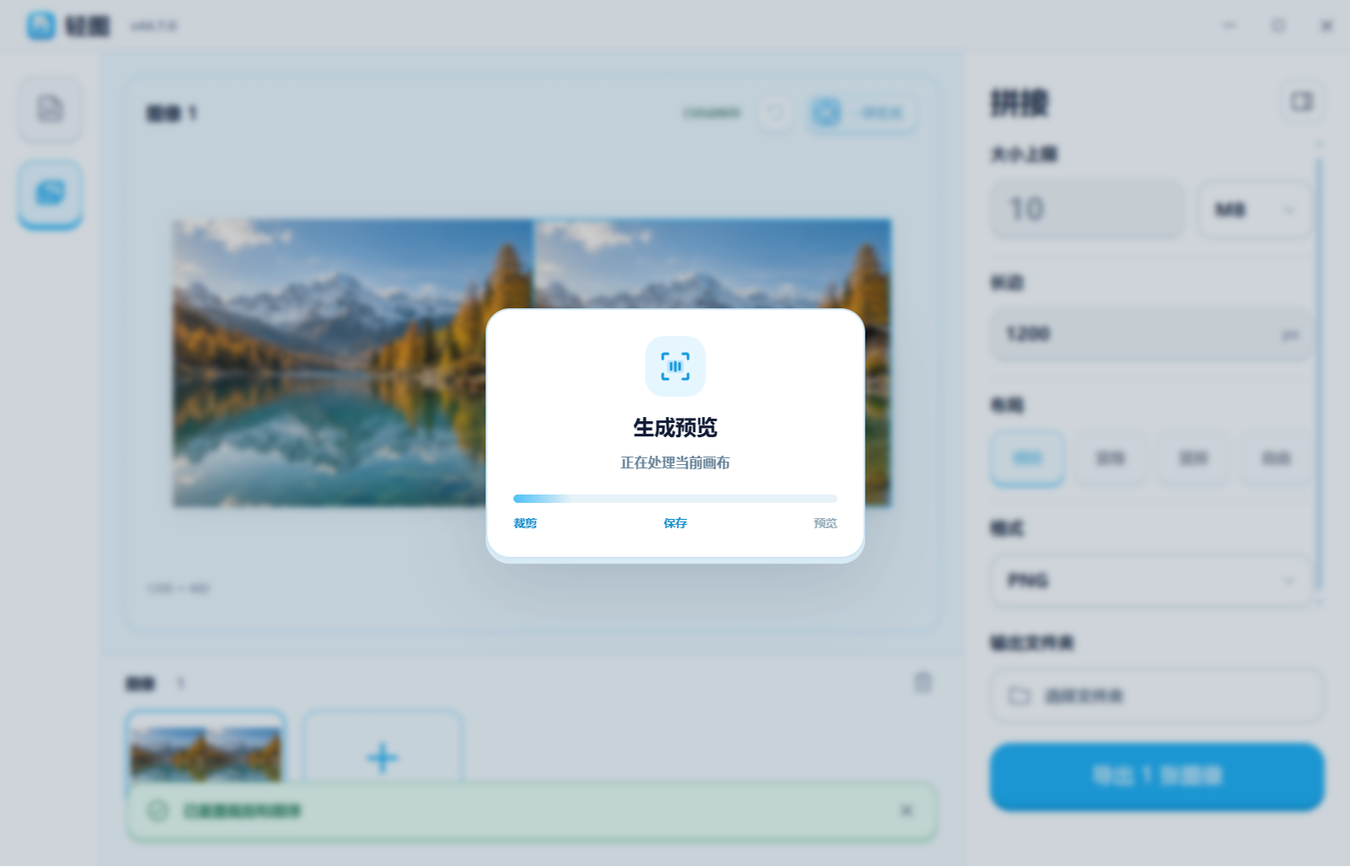
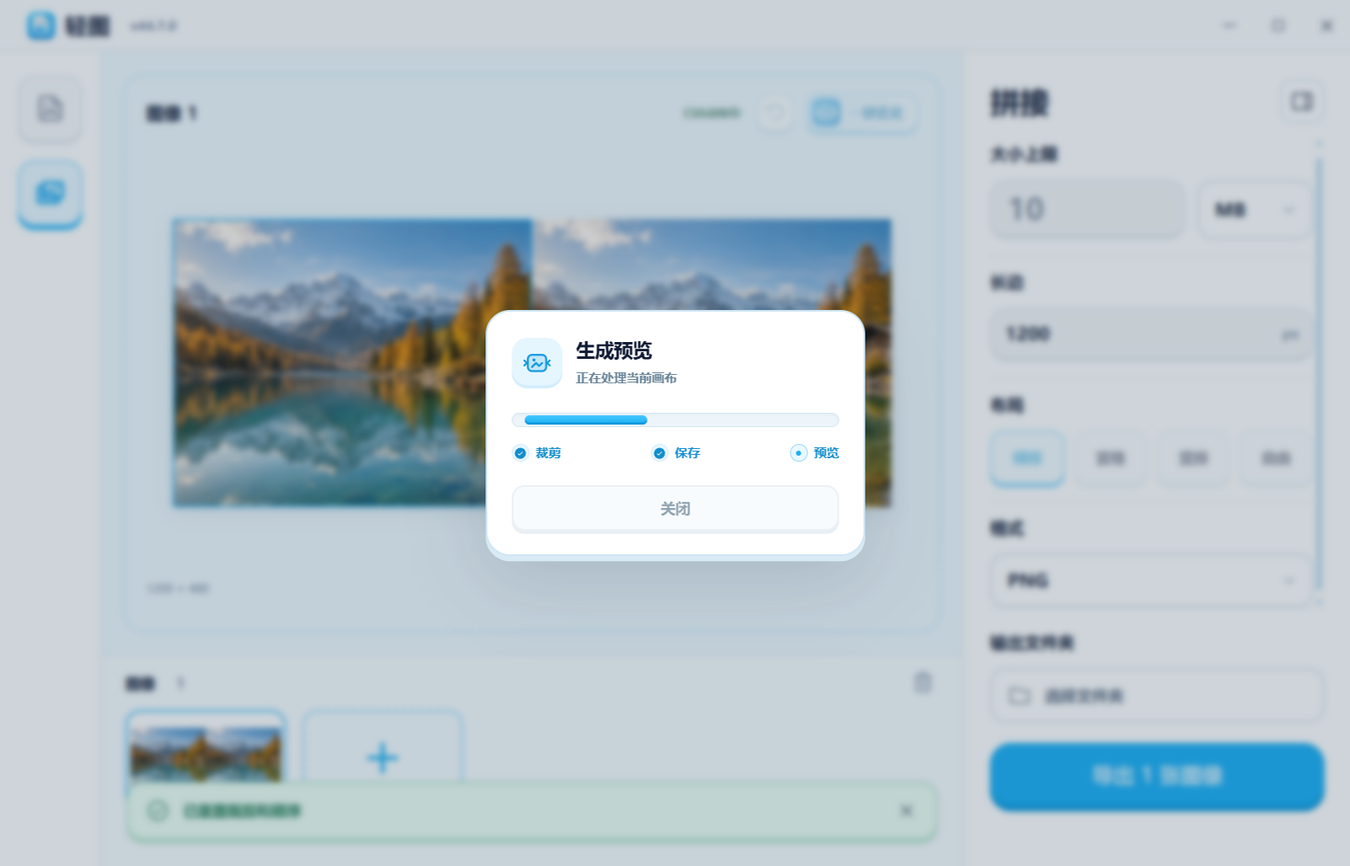
feat: refine optimization feedback and draggable image editor

diff --git a/qingtu/src/stitch/ImageEditor.jsx b/qingtu/src/stitch/ImageEditor.jsx
@@ -1,6 +1,6 @@
 import {forwardRef,useEffect,useImperativeHandle,useLayoutEffect,useRef,useState} from 'react';
 import {createPortal} from 'react-dom';
-import {X,ArrowCounterClockwise} from '@phosphor-icons/react';
+import {ArrowCounterClockwise} from '@phosphor-icons/react';
 import {cropLimit} from '../../engine/stitch-edits.mjs';
 import {addFlushHandler} from '../lifecycle.js';
 import {editorPosition} from './editor-position.js';
@@ -9,9 +9,12 @@ export const ImageEditor=forwardRef(function ImageEditor({image,value,anchor,hid
  const original={axis:value?.axis||'horizontal',amount:value?.amount||0},initial=value==null?{axis:'horizontal',amount:Math.min(50,cropLimit(image,'horizontal'))}:original;
  const [draft,setDraft]=useState(initial),latest=useRef(initial),committed=useRef(original),touched=useRef(false),pointer=useRef(false),timer=useRef(),frame=useRef(),callbacks=useRef(),flushRef=useRef(),panel=useRef();
  const [position,setPosition]=useState({left:anchor?.x||8,top:anchor?.y||8});
+ const positionRef=useRef(position),drag=useRef(),dragFrame=useRef(),mounted=useRef(true),closing=useRef(false),skipDragClick=useRef(false);
  useLayoutEffect(()=>{
-  const place=()=>{if(hidden)return;const size=panel.current.getBoundingClientRect();setPosition(editorPosition(anchor||{x:(innerWidth-size.width)/2,y:(innerHeight-size.height)/2},size,{width:innerWidth,height:innerHeight}));};
-  place();window.addEventListener('resize',place);return()=>window.removeEventListener('resize',place);
+  if(hidden)return;const size=panel.current.getBoundingClientRect();
+  const next=editorPosition(anchor||{x:(innerWidth-size.width)/2,y:(innerHeight-size.height)/2},size,{width:innerWidth,height:innerHeight});positionRef.current=next;setPosition(next);
+  const place=()=>{const size=panel.current.getBoundingClientRect(),next=editorPosition({x:positionRef.current.left,y:positionRef.current.top},size,{width:innerWidth,height:innerHeight});positionRef.current=next;setPosition(next);};
+  window.addEventListener('resize',place);return()=>window.removeEventListener('resize',place);
  },[anchor?.x,anchor?.y,hidden]);
  callbacks.current={onPreview,onCommit,onClose};
  function preview(next){touched.current=true;latest.current=next;setDraft(next);if(frame.current)return;frame.current=requestAnimationFrame(()=>{frame.current=null;callbacks.current.onPreview(latest.current);});}
@@ -26,16 +29,36 @@ export const ImageEditor=forwardRef(function ImageEditor({image,value,anchor,hid
  flushRef.current=commit;
  useImperativeHandle(ref,()=>({flush:()=>flushRef.current()}),[]);
  useEffect(()=>addFlushHandler(()=>flushRef.current()),[]);
- useEffect(()=>()=>{clearTimeout(timer.current);cancelAnimationFrame(frame.current);},[]);
+ useEffect(()=>{mounted.current=true;return()=>{mounted.current=false;clearTimeout(timer.current);cancelAnimationFrame(frame.current);cancelAnimationFrame(dragFrame.current);};},[]);
+ useEffect(()=>{
+  if(hidden||disabled)return;
+  const dismiss=event=>{if(event.type==='pointerdown'&&!drag.current)skipDragClick.current=false;if(event.type==='click'&&skipDragClick.current){skipDragClick.current=false;if(event.detail>0){event.preventDefault();event.stopPropagation();return;}}if(!panel.current.contains(event.target)&&!drag.current&&!pointer.current)close();};
+  document.addEventListener('pointerdown',dismiss,true);document.addEventListener('click',dismiss,true);
+  document.addEventListener('pointermove',moveDrag,true);document.addEventListener('pointerup',endDrag,true);document.addEventListener('pointercancel',endDrag,true);
+  return()=>{document.removeEventListener('pointerdown',dismiss,true);document.removeEventListener('click',dismiss,true);document.removeEventListener('pointermove',moveDrag,true);document.removeEventListener('pointerup',endDrag,true);document.removeEventListener('pointercancel',endDrag,true);};
+ },[hidden,disabled]);
  function amount(raw){
   const number=raw===''?'':Math.max(0,Math.min(cropLimit(image,latest.current.axis),Math.round(Number(raw)||0)));
   preview({...latest.current,amount:number});clearTimeout(timer.current);if(!pointer.current)timer.current=setTimeout(()=>commit().catch(()=>{}),450);
  }
  function direction(axis){if(axis===latest.current.axis)return;preview({axis,amount:0});commit().catch(()=>{});}
  function finish(){pointer.current=false;commit().catch(()=>{});}
- function close(force=false){commit(force).then(()=>callbacks.current.onClose()).catch(()=>{});}
+ function close(force=false){if(closing.current)return;closing.current=true;commit(force).then(()=>{if(mounted.current)callbacks.current.onClose();}).catch(()=>{closing.current=false;});}
+ function startDrag(event){
+  if(disabled||event.button!==0||event.target.closest('button'))return;
+  event.preventDefault();event.currentTarget.setPointerCapture(event.pointerId);
+  drag.current={id:event.pointerId,x:event.clientX,y:event.clientY,...positionRef.current,size:panel.current.getBoundingClientRect()};
+  panel.current.dataset.dragging='true';
+ }
+ function moveDrag(event){
+  const current=drag.current;if(!current||event.pointerId!==current.id)return;
+  if(Math.hypot(event.clientX-current.x,event.clientY-current.y)>3)current.moved=true;
+  positionRef.current=editorPosition({x:current.left+event.clientX-current.x,y:current.top+event.clientY-current.y},current.size,{width:innerWidth,height:innerHeight});
+  if(dragFrame.current)return;dragFrame.current=requestAnimationFrame(()=>{dragFrame.current=null;if(panel.current)Object.assign(panel.current.style,{left:positionRef.current.left+'px',top:positionRef.current.top+'px'});});
+ }
+ function endDrag(event){if(!drag.current||event.pointerId!==drag.current.id)return;if(event.type!=='pointercancel')moveDrag(event);skipDragClick.current=!!drag.current.moved;cancelAnimationFrame(dragFrame.current);dragFrame.current=null;drag.current=null;delete panel.current.dataset.dragging;setPosition({...positionRef.current});}
  return createPortal(<section ref={panel} hidden={hidden} style={position} className="image-editor" role="dialog" aria-label="单图编辑" onKeyDown={event=>{if(event.key==='Escape'){event.stopPropagation();close();}}}>
-  <div className="image-editor-heading"><span title={image.name}>{image.name}</span><button className="icon-button" aria-label="关闭单图编辑" onClick={()=>close()}><X size={18}/></button></div>
+  <div className="image-editor-heading" onPointerDown={startDrag} onPointerMove={moveDrag} onPointerUp={endDrag} onPointerCancel={endDrag}><span title={image.name}>{image.name}</span><button className="image-editor-close" aria-label="关闭单图编辑" onClick={()=>close()}><svg width="16" height="16" viewBox="0 0 20 20" fill="none" aria-hidden><path d="m5 5 10 10M15 5 5 15" stroke="currentColor" strokeWidth="2" strokeLinecap="round"/></svg></button></div>
   <div className="crop-direction" role="group" aria-label="裁剪方向">{[['horizontal','左右'],['vertical','上下']].map(([axis,label])=><button key={axis} disabled={disabled} aria-pressed={draft.axis===axis} className={draft.axis===axis?'active':''} onClick={()=>direction(axis)}>{label}</button>)}</div>
   <label htmlFor="crop-amount">每侧裁剪</label>
   <input className="crop-slider" aria-label="每侧裁剪滑块" style={{'--crop-progress':`${100*(Number(draft.amount)||0)/Math.max(1,cropLimit(image,draft.axis))}%`}} type="range" min="0" max={cropLimit(image,draft.axis)} step="1" value={draft.amount||0} disabled={disabled} onPointerDown={event=>{pointer.current=true;clearTimeout(timer.current);try{event.currentTarget.setPointerCapture(event.pointerId);}catch{}}} onChange={event=>amount(event.target.value)} onPointerUp={finish} onPointerCancel={finish} onKeyUp={finish} onBlur={finish}/>

diff --git a/qingtu/src/styles.css b/qingtu/src/styles.css
@@ -94,10 +94,13 @@ label,h2 { display:block; font-size:16px; font-weight:700; margin-bottom:14px; l
 .stitch-layer.movable,.stitch-layer.reorderable { cursor:grab; }
 .stitch-layer.movable:active,.stitch-layer.reorderable:active { cursor:grabbing; }
 .reorder-indicator { position:absolute; border:2px dashed #119fe7; background:#14aaf318; }
-.image-editor { position:fixed; z-index:26; width:240px; max-width:calc(100vw - 24px); max-height:calc(100dvh - 16px); overflow:auto; padding:12px 15px 14px; border:2px solid #c9e9fa; border-radius:17px; background:#fffffff7; box-shadow:0 4px 0 #d9ecf6,0 8px 25px #18355618; }
-.image-editor-heading { display:flex; align-items:center; justify-content:space-between; gap:8px; margin-bottom:10px; }
+.image-editor { position:fixed; z-index:26; width:240px; max-width:calc(100vw - 24px); max-height:calc(100dvh - 16px); overflow:auto; padding:12px 15px 14px; border:2px solid #c9e9fa; border-radius:17px; background:#fffffff7; box-shadow:0 4px 0 #d9ecf6,0 8px 25px #18355618; -webkit-app-region:no-drag; }
+.image-editor-heading { display:flex; align-items:center; justify-content:space-between; gap:8px; margin-bottom:10px; user-select:none; touch-action:none; cursor:grab; }
+.image-editor[data-dragging="true"] .image-editor-heading { cursor:grabbing; }
 .image-editor-heading span { min-width:0; overflow:hidden; text-overflow:ellipsis; white-space:nowrap; font-size:12px; }
-.image-editor-heading .icon-button { width:26px; height:26px; }
+.image-editor-close { display:grid; place-items:center; padding:0; width:26px; height:26px; flex:0 0 26px; border-radius:8px; color:#718da1; line-height:0; }
+.image-editor-close svg { display:block; }
+.image-editor-close:hover { background:#eaf6fe; color:#148ecd; }
 .crop-direction { display:flex; gap:8px; margin-bottom:17px; }
 .crop-direction button { flex:1; padding:7px 10px; border:2px solid #e0edf5; border-radius:10px; background:#f5fbff; box-shadow:0 2px 0 #e0edf5; font-size:13px; }
 .crop-direction button.active { color:#079dde; border-color:#85d6fa; background:#e5f6ff; box-shadow:0 2px 0 #17aff0; }
@@ -149,21 +152,36 @@ label,h2 { display:block; font-size:16px; font-weight:700; margin-bottom:14px; l
 .stitch-dialog h2 { font-size:20px; margin-bottom:10px; }
 .stitch-dialog p { margin:0; font-size:13px; line-height:1.6; color:#678398; }
 .stitch-dialog p.dialog-error { margin-top:12px; color:#c74665; }
-.stitch-dialog progress { display:block; width:100%; height:8px; margin:20px 0 12px; appearance:none; border:0; border-radius:20px; overflow:hidden; background:#e7f2f8; }
-.stitch-dialog progress::-webkit-progress-bar { background:#e7f2f8; }
-.stitch-dialog progress::-webkit-progress-value { background:var(--blue); border-radius:20px; }
-.stitch-dialog progress:indeterminate { background:linear-gradient(90deg,#e7f2f8 0 35%,#1cb0f6 45% 55%,#e7f2f8 65%); background-size:240% 100%; animation:optimization-progress 1.25s ease-in-out infinite; }
-.stitch-dialog progress:indeterminate::-webkit-progress-bar { background:transparent; }
-.optimization-steps { display:flex; justify-content:space-between; font-size:11px; color:#97adbb; }
+.optimization-dialog { padding:23px; }
+.optimization-heading { display:flex; align-items:center; gap:13px; text-align:left; min-height:52px; }
+.optimization-heading .stitch-dialog-icon { flex:0 0 48px; width:48px; height:48px; border-radius:15px; margin:0; box-shadow:inset 0 -3px 0 #d3edfc; }
+.optimization-heading .stitch-dialog-icon.danger { box-shadow:inset 0 -3px 0 #f9e0e7; }
+.optimization-heading h2 { font-size:18px; margin:0 0 5px; }
+.optimization-heading p { font-size:12px; overflow-wrap:anywhere; }
+.optimization-progress { height:14px; padding:2px; margin:21px 0 14px; border:1px solid #d5e6f0; border-radius:9px; overflow:hidden; background:#edf5fa; box-shadow:inset 0 2px 2px #b8d2e425; }
+.optimization-progress-fill { display:block; width:38%; height:100%; border-radius:6px; background:linear-gradient(#46c7ff,#1aaff4); box-shadow:inset 0 -2px 0 #0897db; animation:optimization-progress 1.7s cubic-bezier(.4,0,.3,1) infinite; }
+.optimization-progress.done .optimization-progress-fill { width:100%; animation:none; transform:none; }
+.optimization-steps { display:flex; justify-content:space-between; align-items:center; gap:8px; margin-top:16px; font-size:12px; color:#92a8b8; }
+.optimization-steps>span { display:flex; align-items:center; gap:6px; }
+.optimization-steps i { display:grid; place-items:center; width:17px; height:17px; border:1px solid #dbe8f0; border-radius:50%; background:#f4f8fb; }
+.optimization-steps i>span { width:5px; height:5px; border-radius:50%; background:#c4d5e0; }
 .optimization-steps .complete { color:#138dcc; }
+.optimization-steps .complete i { border-color:#d2edfc; background:#e8f7ff; }
+.optimization-steps .active { color:#148ecd; }
+.optimization-steps .active i { border-color:#98d8f6; background:#eaf8ff; }
+.optimization-steps .active i>span { background:var(--blue); }
+.optimization-steps .failed { color:#c74665; }
+.optimization-steps .failed i { border-color:#f1cbd7; background:#fff1f5; }
+.optimization-steps .failed i>span { background:#cf6a82; }
 .stitch-dialog-actions { display:flex; gap:12px; margin-top:22px; }
 .stitch-dialog-actions button { flex:1; min-height:43px; border:2px solid #dce9f2; border-radius:12px; font-size:14px; font-weight:750; background:#f6fbfe; color:#678398; box-shadow:0 3px 0 #dce9f2; }
 .stitch-dialog-actions .dialog-confirm { border-color:#097bbc; background:#097bbc; color:white; box-shadow:0 3px 0 #08659c; }
 .stitch-dialog-actions .dialog-confirm.danger { border-color:#c74665; background:#c74665; box-shadow:0 3px 0 #a93451; }
+.stitch-dialog-actions .optimization-dismiss { color:#48677e; background:#f4f8fc; border-color:#dce7f0; box-shadow:0 3px 0 #dae4ed; }
 .stitch-dialog-actions button:active:not(:disabled) { transform:translateY(2px); box-shadow:none; }
 .stitch-dialog-actions button:disabled { opacity:.6; }
-@keyframes optimization-progress { 0% { background-position:100% 0; } 100% { background-position:0 0; } }
-@media (prefers-reduced-motion:reduce) { .stitch-dialog progress:indeterminate { animation:none; background-position:50% 0; } }
+@keyframes optimization-progress { 0%,100% { transform:translateX(0); } 50% { transform:translateX(160%); } }
+@media (prefers-reduced-motion:reduce) { .optimization-progress-fill { animation:none; transform:translateX(80%); } }
 .canvas-area { flex:1; min-height:0; min-width:0; display:flex; align-items:center; justify-content:center; padding:14px 20px 26px; overflow:hidden; }
 .empty-state { display:flex; align-items:center; flex-direction:column; gap:18px; transform:translateY(-3px); }
 .empty-illustration { width:360px; height:280px; margin:-30px 0; object-fit:contain; user-select:none; pointer-events:none; }

diff --git a/qingtu/src/stitch/ActionDialogs.jsx b/qingtu/src/stitch/ActionDialogs.jsx
@@ -3,10 +3,10 @@ import {createPortal} from 'react-dom';
 import {ArrowCounterClockwise,Trash,CheckCircle,WarningCircle} from '@phosphor-icons/react';
 import {OptimizeIcon} from './OptimizeIcon.jsx';
 
-function Modal({children,label,onCancel}){
+function Modal({children,label,onCancel,className=''}){
  const dialog=useRef();
  useEffect(()=>{const target=document.activeElement;dialog.current.showModal();return()=>{dialog.current?.close();if(target?.isConnected)target.focus();};},[]);
- return createPortal(<dialog ref={dialog} className="stitch-dialog" aria-label={label} onCancel={event=>{event.preventDefault();onCancel?.();}}>{children}</dialog>,document.body);
+ return createPortal(<dialog ref={dialog} className={`stitch-dialog ${className}`} aria-label={label} onCancel={event=>{event.preventDefault();onCancel?.();}}>{children}</dialog>,document.body);
 }
 export function ConfirmDialog({request,onCancel,onConfirm}){
  const [working,setWorking]=useState(false),[error,setError]=useState('');
@@ -18,5 +18,11 @@ export function OptimizeDialog({state,onClose}){
  const finished=state.phase==='done'||state.phase==='error',Icon=state.phase==='done'?CheckCircle:state.phase==='error'?WarningCircle:OptimizeIcon;
  const phase=state.phase==='error'?state.failedAt:state.phase;
  const labels={prepare:'准备优化',calculate:'计算裁剪',save:'保存画布',render:'生成预览',done:'优化完成',error:'优化未完成'};
- return <Modal label="一键优化进度" onCancel={()=>{if(finished)onClose();}}><div className={`stitch-dialog-icon ${state.phase==='error'?'danger':''}`}><Icon size={32}/></div><h2>{labels[state.phase]}</h2><p aria-live="polite">{state.message||'正在处理当前画布'}</p>{state.phase!=='error'&&<progress aria-label="一键优化进度" max="1" value={state.phase==='done'?1:undefined}/>}<div className="optimization-steps" aria-hidden><span className={['save','render','done'].includes(phase)?'complete':''}>裁剪</span><span className={['render','done'].includes(phase)?'complete':''}>保存</span><span className={state.phase==='done'?'complete':''}>预览</span></div>{finished&&<div className="stitch-dialog-actions"><button className="dialog-confirm" onClick={onClose}>{state.phase==='done'?'完成':'关闭'}</button></div>}</Modal>;
+ const steps=[['calculate','裁剪'],['save','保存'],['render','预览']],index=steps.findIndex(([key])=>key===phase);
+ return <Modal label="一键优化进度" className="optimization-dialog" onCancel={()=>{if(finished)onClose();}}>
+  <div className="optimization-heading"><div className={`stitch-dialog-icon ${state.phase==='error'?'danger':''}`}><Icon size={27}/></div><div><h2>{labels[state.phase]}</h2><p aria-live="polite">{state.message||'正在处理当前画布'}</p></div></div>
+  {state.phase!=='error'&&<div className={`optimization-progress ${state.phase==='done'?'done':''}`} role="progressbar" aria-label="一键优化进度" aria-valuemin={0} aria-valuemax={100} aria-valuenow={state.phase==='done'?100:undefined} aria-valuetext={labels[state.phase]}><span className="optimization-progress-fill"/></div>}
+  <div className="optimization-steps" aria-hidden>{steps.map(([key,label],n)=>{const status=state.phase==='done'||n<index?'complete':n===index?(state.phase==='error'?'failed':'active'):'';return <span key={key} className={status}><i>{status==='complete'?<CheckCircle size={13} weight="fill"/>:<span/>}</i>{label}</span>;})}</div>
+  <div className="stitch-dialog-actions"><button className={state.phase==='done'?'dialog-confirm':'dialog-cancel optimization-dismiss'} disabled={!finished} onClick={onClose}>{state.phase==='done'?'完成':'关闭'}</button></div>
+ </Modal>;
 }

diff --git a/qingtu/src/stitch/CanvasTools.jsx b/qingtu/src/stitch/CanvasTools.jsx
@@ -1,10 +1,12 @@
 import {ArrowCounterClockwise} from '@phosphor-icons/react';
 import {TooltipButton} from '../TooltipButton.jsx';
 import {OptimizeIcon} from './OptimizeIcon.jsx';
+import {optimizationAvailability} from '../../engine/stitch-optimize.mjs';
 
 export function CanvasTools({project,busy,onReset,onOptimize}){
+ const optimization=optimizationAvailability(project);
  return <div className="canvas-actions" role="group" aria-label="画布工具">
   <TooltipButton label="重置裁剪与顺序" placement="left" className="canvas-reset" disabled={busy||!project?.images.length} onClick={onReset}><ArrowCounterClockwise size={19}/></TooltipButton>
-  <button className="canvas-optimize" aria-label="一键优化" title={project?.layout==='horizontal'?'统一左右裁剪为 2.5:1':'仅横排可用'} disabled={busy||!project?.images.length||project.layout!=='horizontal'} onClick={onOptimize}><span className="optimizer-glyph"><OptimizeIcon size={22}/></span><span>一键优化</span></button>
+  <button className="canvas-optimize" aria-label="一键优化" title={optimization.hint} disabled={busy||!optimization.enabled} onClick={onOptimize}><span className="optimizer-glyph"><OptimizeIcon size={22}/></span><span>一键优化</span></button>
  </div>;
 }

diff --git a/qingtu/src/stitch/OptimizeIcon.jsx b/qingtu/src/stitch/OptimizeIcon.jsx
@@ -1,7 +1,9 @@
 export function OptimizeIcon({size=24,...props}){
- return <svg width={size} height={size} viewBox="0 0 32 32" fill="none" aria-hidden {...props}>
-  <path d="M9 4H5a1 1 0 0 0-1 1v4m19-5h4a1 1 0 0 1 1 1v4M4 23v4a1 1 0 0 0 1 1h4m19-5v4a1 1 0 0 1-1 1h-4" stroke="currentColor" strokeWidth="2.5" strokeLinecap="round"/>
-  <rect x="8" y="10" width="16" height="12" rx="2.5" fill="currentColor" opacity=".18"/>
-  <path d="M12 13v6m8-6v6M16 12v8" stroke="currentColor" strokeWidth="2.5" strokeLinecap="round"/>
+ return <svg width={size} height={size} viewBox="0 0 28 28" fill="none" aria-hidden {...props}>
+  <rect x="4" y="6" width="20" height="16" rx="4" fill="currentColor" opacity=".16"/>
+  <path d="M9 6h10a4 4 0 0 1 4 4v8a4 4 0 0 1-4 4H9a4 4 0 0 1-4-4v-8a4 4 0 0 1 4-4Z" stroke="currentColor" strokeWidth="1.9"/>
+  <circle cx="11" cy="11" r="1.5" fill="currentColor"/>
+  <path d="m9 18 4-4 3 3 3-3" stroke="currentColor" strokeWidth="1.9" strokeLinecap="round" strokeLinejoin="round"/>
+  <path d="m1.5 11.5 2.5 2.5-2.5 2.5m25-5-2.5 2.5 2.5 2.5" stroke="currentColor" strokeWidth="1.9" strokeLinecap="round" strokeLinejoin="round"/>
  </svg>;
 }

diff --git a/qingtu/README.md b/qingtu/README.md
@@ -24,9 +24,9 @@ Mac / Windows 本地图片压缩与拼接工具。拖入图片，设置大小或
 - 唯一自动裁切是横排超宽时对其中未手动裁剪的 9:16 图片左右居中裁切。其他比例和竖排、宫格、自由布局超限时提示调整。四张未编辑的 3:4、3:4、9:16、9:16 图片默认输出 5999×2400。
 - 自由画布包住全部可见图片内容，内部空隙透明。进入自由画布时保留高度与中心，恢复自动裁切，保留用户手动裁剪；新增图片按现有基准高度缩放，在右侧追加。支持画布内移动、边缘/中心吸附、等比尺寸调整；蓝色选中框贴合图片，始终显示在图片上方。
 - 底部“图像”卡片展示整个画布，可切换、新建，无复选框。右键卡片可单独导出或删除，删除前确认；列表右上角可确认删除全部，完成后留一张新空画布。画布内不再显示添加/删除按钮；使用拖入或 ⌘/Ctrl+O 继续导入，Delete 移除选中图片。空画布仍可点击“添加图片”。右侧保留布局与导出设置，卡片小图持久化且不加载其他项目原图。
-- 横排可点击“一键优化”：从完整原图重新计算，每张按相同百分比左右居中裁剪，替换已有裁剪并自动保存。最终画布严格 2.5:1，默认 5995×2398；自定义长边在点击时向下取最近的 5 的倍数。之后修改严格比例的分辨率需输入 5 的倍数，不符合时明确提示。原图横排比例不足 2.5 时提示无需优化；其他布局禁用按钮。重复点击不叠加裁剪、不重复编码。
-- 画布右上角仅放置各自有背景的重置与“一键优化”，优化位于最右侧，采用自绘裁剪拼图图标。优化弹窗显示实际处理阶段，未知时长用活动进度条，完成后确认；相同结果不重复编码。重置先弹窗确认。右侧布局依次为横排、宫格、竖排、自由；画布右下角显示 MB，悬停可查看精确字节数。
-- 画布中右键图片可编辑或删除，双击图片在鼠标位置打开单图编辑浮层，靠近边缘时自动避让。左右或上下二选一，拖动滑块或输入原图每侧裁剪像素；切换方向从 0 开始，可重置。未编辑图片每侧预填 50 px，修改或点“完成”才应用，直接关闭或退出应用不应用预填。已有裁剪状态保留；手动裁剪适用于所有布局，原图副本不变，自由画布保留图片中心和原图缩放比例。
+- 横排可点击“一键优化”：从完整原图重新计算，每张按相同百分比左右居中裁剪，替换已有裁剪并自动保存。最终画布严格 2.5:1，默认 5995×2398；自定义长边在点击时向下取最近的 5 的倍数。之后修改严格比例的分辨率需输入 5 的倍数，不符合时明确提示。沿用原图比例判定：原图横排比例不超过 2.5、已完成同样裁剪或非横排时直接禁用按钮，不弹出无需优化提示，不重复编码。默认 9:16 自动裁切与此显式操作保持原来的独立规则。
+- 画布右上角仅放置各自有背景的重置与“一键优化”，优化位于最右侧，采用自绘的向内收边图片图标。优化弹窗显示实际裁剪、保存、预览阶段，未知时长用蓝色圆角活动进度条；实际完成后才标记 100%。处理中关闭按钮禁用且为浅灰色，失败后的关闭保持中性灰，成功时“完成”为蓝色。重置先弹窗确认。右侧布局依次为横排、宫格、竖排、自由；画布右下角显示 MB，悬停可查看精确字节数。
+- 画布中右键图片可编辑或删除，双击图片在鼠标位置打开单图编辑浮层，靠近边缘时自动避让。可拖动标题栏移动编辑窗，始终限制在窗口内；点击应用内浮层外的区域自动关闭并提交已改动的裁剪，关闭图标居中。左右或上下二选一，拖动滑块或输入原图每侧裁剪像素；切换方向从 0 开始，可重置。未编辑图片每侧预填 50 px，修改或点“完成”才应用，直接关闭或退出应用不应用预填。已有裁剪状态保留；手动裁剪适用于所有布局，原图副本不变，自由画布保留图片中心和原图缩放比例。
 - 右上角重置恢复裁剪和真正导入顺序，保留布局与导出设置；横排 9:16 的自动裁切规则仍按当前布局重新计算。新项目自动记录导入顺序。没有该记录的旧多图项目须由用户提供真实顺序，应用不会猜测或将当前顺序当作初始顺序。
 - 横排、竖排、宫格中直接拖动图片换序；自由画布中直接拖动移动位置。滑块与拖动仅更新低分辨率画面，结束后自动保存并计算真实预览；键盘 Alt+方向键换序，方向键移动自由图片，Enter 编辑，Delete 移除。
 - 主按钮“导出 X 张图像”默认导出全部有内容的画布项目，空画布跳过且不计入 X；右键卡片可分别导出。每个项目独立保存图片、布局、位置、尺寸与导出设置。卡片和缩略图禁止原生拖动，内部缩略图文件不会被当作原图导入其他项目。编辑自动保存；桌面保管原图副本，移动原文件仍可恢复；浏览器使用 IndexedDB 保存 Blob，空间不足明确提示“未保存”。项目按需加载，删除项目不删除外部原文件。

diff --git a/qingtu/docs/stitch-editor-feedback.md b/qingtu/docs/stitch-editor-feedback.md
@@ -1,0 +1,13 @@
+# 优化工具与浮动编辑窗验证（2026-10-14）
+
+优化图标改为带向内箭头的图片轮廓。沿用已确认的从原图重算规则：原图横排宽高比不超过 2.5、已完成相同的均匀裁剪、空画布及非横排时，优化按钮直接禁用；相同裁剪允许浮点误差容差，不重复编码。默认横排针对 9:16 的自动裁切继续按原规则处理，仍可显式重新均匀裁剪所有原图。
+
+编辑窗从双击位置打开，可拖动标题栏，并在窗口边界内停留。移动反馈每帧合并一次，不改裁剪、不编码。指针离开弹窗或捕获丢失时继续跟随；拖动后的释放点击不触发关闭或背后的其他控件。点击应用内编辑窗外的区域、键盘激活外部控件或切换模块时关闭；先提交已修改的裁剪，未触摸的 50px 预填保持未应用。X 使用对称 SVG 与无内边距的居中按钮。保存失败仍沿用“未保存 / 重试”流程。
+
+进度弹窗采用紧凑的图标标题、蓝色圆角活动条及真实裁剪/保存/预览标记。蓝条在轨道内往返，不在动画起末帧消失；未知时长没有百分比值，实际处理完成才显示 100%。系统减少动态效果时停止活动动画。关闭按钮处理中为禁用浅灰，失败后为可点击中性灰，成功“完成”才使用蓝色。
+
+159/159 测试、构建、`smoke:desktop`、`smoke:ui`、`smoke:recovery`、`smoke:optimization`、`smoke:png-budget` 通过。UI 检查用原生鼠标验证编辑窗拖动和边界、X 两轴居中、拖动不应用 50px、不编码、外部点击提交 37px 并关闭、关闭重开保留裁剪、无需优化按钮禁用、实际完成才结束进度。额外注入一次预览失败，验证已完成的裁剪/保存标记与中性关闭按钮；日志中的“测试：预览生成失败”为预期注入，不是未处理的生产异常。
+
+记录见 [editor-feedback-validation.json](stitch-validation/editor-feedback-validation.json)。截图：[实际工作台](stitch-validation/toolbar-workbench.png)、[拖动后的编辑窗](stitch-validation/draggable-editor.png)、[处理中进度卡片](stitch-validation/optimization-progress-card.png)、[失败后的关闭](stitch-validation/optimization-failed.png)。进度截图使用 900ms 的测试延迟捕捉真实待处理阶段，不能据此判断处理耗时。完整原生烟测截图顶栏显示 Electron 测试宿主版本；浏览器截图显示应用版本 0.4.5。
+
+Windows 原生开发运行与浏览器已验证；Mac 原生和安装包没有本轮实机验证。未合并 main、发布安装包或更改签名材料。

diff --git a/qingtu/AGENTS.md b/qingtu/AGENTS.md
@@ -50,6 +50,8 @@ Build app UI in `src/`. Keep `.openai/hosting.json`, `worker/index.js`, `scripts
 
 ## Stitching / quality branch requirements (2026-10-13)
 
+- Latest optimization/editor feedback (2026-10-14): use the custom inward-arrow panorama icon. Preserve the confirmed original-image recomputation rule: disable optimization for original horizontal ratios <=2.5, equivalent already optimised crop fractions, empty and non-horizontal projects; a default automatic 9:16 crop does not change that original ratio. The editor title bar drags through requestAnimationFrame with viewport clamping; do not encode, save crops or apply the untouched 50px prefill merely because its window moves. Handle document-level pointer tracking if capture is lost; a drag-release click must not dismiss the editor. Outside pointer/keyboard clicks dismiss after flushing touched crop values; X must be geometrically centred. Respect resize, reduced motion, save errors and normal-quit flush. Optimization has an always-visible blue capsule activity bar while duration is unknown, real crop/save/preview markers and 100% only after success. Working Close is disabled/neutral; failed Close is enabled/neutral; only successful Done uses the blue primary action. Failures never display fake completion.
+
 - Latest toolbar/editor feedback (2026-10-14): place one-click optimization, edit and crop/order reset in the canvas's top-right toolbar, aligned with compression's preview controls. Right layout order is horizontal, grid, vertical, free. Show decimal MB in the bottom-right canvas status and exact bytes in its tooltip.
 - Latest compression-icon feedback (2026-10-14): the current replacement is a custom folded-picture SVG matching the app's picture-file visual language. Retain the 30px bounds, blue selected state and tooltips.
 - Latest canvas-toolbar feedback (2026-10-14) overrides the earlier transparent three-button design: retain only reset and one-click optimization, each with its own background. Reset is on the left; the custom crop/tiles optimization glyph and pale-blue inset button are on the right. Reset requires an explicit in-app confirmation. Optimization uses a modal with real prepare/crop/save/preview phases; keep its bar indeterminate while duration is unknown, and show completion only after the actual validated preview returns. Reuse a ready identical result without another encode. Close/updater restart must wait for the optimization promise.

diff --git a/qingtu/docs/stitch-and-quality.md b/qingtu/docs/stitch-and-quality.md
@@ -2,6 +2,10 @@
 
 开发分支 `codex/stitch-and-quality`，基线 `70144d5` / 0.4.5；Node 24.14.0，Windows。本次完成源码开发与下述验证，没有合并 main 或发布安装包。
 
+## 最新编辑窗与优化工具
+
+159 项测试及实际截图见 [stitch-editor-feedback.md](stitch-editor-feedback.md)：无需优化按钮禁用、标题拖动、点击外部关闭、X 居中、新图标与真实进度条，以及处理中/失败关闭按钮的中性颜色。
+
 ## 最新 PNG 体积规则
 
 2026-10-14 用户确认：优先保留细节，必要时等比降低分辨率，并明确显示实际尺寸。此前的固定分辨率超限提示已被替换；更新后的 156 项测试、实际附件 10 MB 导出、完整指标和平台检查见 [png-budget.md](png-budget.md)。下文的固定尺寸拒绝描述属于此前验证记录。
